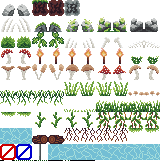
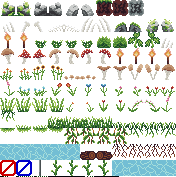
Poles and flowers

diff --git a/main/scripts/game/player.py b/main/scripts/game/player.py
@@ -8,21 +8,31 @@ import random
 
 class Player(CollisionPhysicsObject):
     def __init__(self, spawn_pos: [float], speed: float, sprint_speed: float, crouch_speed: float, swim_speed: float, acceleration_time: float, jump_force: int):
-        self.rect_size = PLAYER_SIZE
-        self.rect_size_crouch = tuple(self.rect_size[::-1])
-        self.rect_size_swim = (self.rect_size[0], self.rect_size[0])
+        super().__init__(50, spawn_pos, PLAYER_RECT_SIZE_NORMAL)
+
+        # Player rect size (based on state)
+        self.rect_size = PLAYER_RECT_SIZE_NORMAL
+        self.rect_size_crouch = PLAYER_RECT_SIZE_CROUCH
+        self.rect_size_swim = PLAYER_RECT_SIZE_SWIM
+
+        # Player speed (based on state)
         self.speed: float = speed
         self.sprint_speed: float = sprint_speed
         self.crouch_speed: float = crouch_speed
         self.swim_speed: float = swim_speed
+
+        # Physics attributes
         self.acceleration_time: float = acceleration_time
         self.jump_force: int = jump_force
+
+        # Animation states
         self.state: str = "idle" # state is used for movement & animations
         self.direction: int = 0 # 0 = right; 1 = left
         self.hit_ground = 0
-        self.can_move: bool = False # Used for intro
+        self.can_move: bool = False # Disabled during intro
+
+        # Long crouch jump
         self.charge_crouch_jump: float = 0
-        super().__init__(50, spawn_pos, self.rect_size)
 
     def draw(self, window: Window):
         # Draw hitbox
@@ -35,28 +45,60 @@ class Player(CollisionPhysicsObject):
     
     def jump(self, window, duration: float):
         force = self.jump_force * duration / window.delta_time
-        if self.direction == 1 and self.charge_crouch_jump and not window.keybind("left"): # Crouch jump left
+        if self.direction == 1 and self.charge_crouch_jump and not window.keybind("left"):
+            # Crouch jump left
             self.apply_force(force * 8, 160, window.delta_time)
             self.state = "crouch_jump"
-        elif self.direction == 0 and self.charge_crouch_jump and not window.keybind("right"): # Crouch jump right
+        elif self.direction == 0 and self.charge_crouch_jump and not window.keybind("right"):
+            # Crouch jump right
             self.apply_force(force * 8, 20, window.delta_time)
             self.state = "crouch_jump"
-        elif self.onGround: # Normal jump
+        elif self.onGround:
+            # Normal jump
             self.apply_force(force, 90, window.delta_time)
-        elif self.vel[1] > 1.5: # Max wall jump velocity
+        elif self.vel[1] > 1.5:
+            # Max wall jump velocity
             return
-        elif self.onWallLeft and window.keybind("left") and window.keybind("jump") == 1: # Wall jump left
+        elif self.onWallLeft and window.keybind("left") and window.keybind("jump") == 1:
+            # Wall jump left
             self.apply_force(force * 2.5, 110, window.delta_time)
             self.onWallLeft = 0
-        elif self.onWallRight and window.keybind("right") and window.keybind("jump") == 1: # Wall jump right
+        elif self.onWallRight and window.keybind("right") and window.keybind("jump") == 1:
+            # Wall jump right
             self.apply_force(force * 2.5, 70, window.delta_time)
             self.onWallRight = 0
 
     def move(self, world, window: Window):
-        # animation states
+        # Block_coords
         wall_block_right = (round(self.rect.x + 0.8), round(self.rect.y + 1))
         wall_block_left = (round(self.rect.x - 0.8), round(self.rect.y + 1))
 
+        # Climb poles & vines
+        if self.direction:
+            pole_x = math.floor(round(self.rect.x, 1))
+        else:
+            pole_x = math.ceil(round(self.rect.x, 1))
+        grab_pole = world.get_block(pole_x, round(self.rect.y + 1), layer=2) in world.blocks_climbable
+        on_pole = world.get_block(pole_x, round(self.rect.y), layer=2) in world.blocks_climbable or grab_pole
+
+        if window.keybind("jump") and on_pole:
+            self.onGround = True
+            if window.keybind("left") or window.keybind("right"):
+                self.vel[1] = 0
+            elif grab_pole and not window.keybind("crouch"):
+                self.rect.x = pole_x
+                self.vel[0] = 0
+                self.vel[1] = max(1.8, self.vel[1])
+                self.state = "climb_pole"
+                return
+            elif window.keybind("crouch") or not grab_pole:
+                self.rect.x = pole_x
+                self.vel[0] = 0
+                self.vel[1] = max(0.15, self.vel[1])
+                self.state = "on_pole"
+                return
+
+        # Animation states
         if self.vel[1] < -5:
             self.state = "fall"
             self.hit_ground = 0.3
@@ -96,6 +138,7 @@ class Player(CollisionPhysicsObject):
         elif self.vel[0] < -1:
             self.direction = 1
 
+        # Swap states between normal and crouching
         if self.state in ("crouch", "crouch_jump", "crawl"):
             if self.rect.size != self.rect_size_crouch:
                 self.rect.x += (self.rect_size[0] - self.rect_size_crouch[0]) / 2
@@ -113,6 +156,7 @@ class Player(CollisionPhysicsObject):
                 self.rect.size = self.rect_size_crouch
                 self.state = {"jump": "crouch_jump", "jump_high": "crouch_jump", "walk": "crawl", "sprint": "crawl"}.get(self.state, "crouch")
 
+        # Move player
         max_speed = self.speed
         if window.keybind("sprint"): # Keeps sprinting once key pressed / stops faster as long as pressed
             max_speed = self.sprint_speed
@@ -127,7 +171,7 @@ class Player(CollisionPhysicsObject):
             else:
                 current_speed /= 3 # Stop movement while in air
 
-        if self.can_move:
+        if self.can_move: # Disabled during intro
             if window.keybind("right"): # d has priority over a
                 if self.vel[0] < max_speed:
                     if self.vel[0] + current_speed > max_speed: # Guaranteeing exact max speed
@@ -250,18 +294,19 @@ class Player(CollisionPhysicsObject):
             mouse_pos = window.camera.map_coord(window.mouse_pos[:2], world=True)
             spawn_particle(mouse_pos)
         
-        """
+
         if window.mouse_buttons[2] == 1: # right click: place/break block
             mouse_pos = window.camera.map_coord(window.mouse_pos[:2], world=True)
             if world.get_block(math.floor(mouse_pos[0]), math.floor(mouse_pos[1])) > 0:
                 world.set_block(math.floor(mouse_pos[0]), math.floor(mouse_pos[1]), 0)
             else:
-                world.set_block(math.floor(mouse_pos[0]), math.floor(mouse_pos[1]), world.block_name["grass_block"])
+                world.set_block(math.floor(mouse_pos[0]), math.floor(mouse_pos[1]), world.block_name["dirt_block"])
         """
         if window.mouse_buttons[2] == 1: # place water
             mouse_pos = window.camera.map_coord(window.mouse_pos[:2], world=True)
             water_level = world.get_water(math.floor(mouse_pos[0]), math.floor(mouse_pos[1]))
             world.set_water(math.floor(mouse_pos[0]), math.floor(mouse_pos[1]), water_level + 1000)
+        """
         
 
         for particle in particle_list:

diff --git a/main/scripts/utility/const.py b/main/scripts/utility/const.py
@@ -6,7 +6,9 @@ OPENGL_VERSION: str = "3.3 core"
 PLATFORM: str = platform.system()
 INTRO_REPEAT: int = 64
 INTRO_LENGTH: int = INTRO_REPEAT * 24
-PLAYER_SIZE: [int] = (0.9, 1.8)
+PLAYER_RECT_SIZE_NORMAL: [float] = (0.9, 1.8)
+PLAYER_RECT_SIZE_CROUCH: [float] = (1.8, 1.8)
+PLAYER_RECT_SIZE_SWIM: [float] = (0.9, 1.8)
 PHYSICS_REALISTIC: bool = False
 PHYSICS_GRAVITY_CONSTANT: float = 9.81 if PHYSICS_REALISTIC else 15
 PHYSICS_GRAVITY_CONSTANT_WATER: float = PHYSICS_GRAVITY_CONSTANT
@@ -29,6 +31,7 @@ TEXT_SIZE_DESCRIPTION: float = 0.14
 CAMERA_RESOLUTION_INTRO: float = 1.0
 CAMERA_RESOLUTION_GAME: float = 3.0
 BLOCKS_VEGETATION_FLOOR_COMMON: tuple = ("flat_grass", "small_grass", "medium_grass")
-BLOCKS_VEGETATION_FLOOR_UNCOMMON: tuple = ("tall_grass", "bush0", "bush1", "torch")
-BLOCKS_VEGETATION_FLOOR_RARE: tuple = ("mushroom0", "mushroom1", "mushroom2", "mushroom3", "mushroom4", "mushroom5", "mushroom6", "plant0", "wood0", "bones0", "bones1", "bones2", "bones3", "stone0", "stone1", "stone2", "mossy_stone0", "mossy_stone1")
+BLOCKS_VEGETATION_FLOOR_UNCOMMON: tuple = ("tall_grass", "bush0", "bush1", "torch", *["flower" + str(i) for i in range(11)])
+BLOCKS_VEGETATION_FLOOR_RARE: tuple = (*["mushroom" + str(i) for i in range(7)], "plant0", "wood0", "bones0", "bones1", "bones2", "bones3", "stone0", "stone1", "stone2", "mossy_stone0", "mossy_stone1")
 BLOCKS_VEGETATION_CEILING: tuple = ("roots0", "roots1", "roots2", "vines0", "vines1")
+BLOCKS_CLIMBABLE: tuple = ("pole", "vines0", "vines0_flipped")

diff --git a/main/scripts/game/world_generation.py b/main/scripts/game/world_generation.py
@@ -36,7 +36,7 @@ def generate_world(world):
         last_special += 1
         cave_type = random.random()
 
-        if cave_type > 0.7 or last_special < 5:
+        if cave_type > 0.7 or last_special < 4:
             print("generate horizontal cave")
             Shape.horizontal(world, position)
         else:
@@ -171,7 +171,7 @@ def generate_poles(world, poles, blocks_ground, blocks_ceiling):
             continue
 
         y_ground = blocks_ground[x]
-        y_ceiling = max(y_ground, blocks_ceiling[x] - 3)
+        y_ceiling = max(y_ground, blocks_ceiling[x] - 2)
 
         for y in range(y_ground, y_ceiling):
             world.set_block(x, y, world.block_name["pole"])
@@ -268,7 +268,7 @@ class Shape:
         
     @staticmethod
     def horizontal(world, position):
-        angle = snoise2(position[0] / 100 + world.seed, world.seed, octaves=4) * 0.8
+        angle = snoise2(position[0] / 100 + world.seed, world.seed, octaves=4) * 0.7
         length = random.randint(50, 150)
         deviation = random.randint(2, 6) # 2 - 6 works fine
         radius = 3
@@ -277,10 +277,10 @@ class Shape:
 
     @staticmethod
     def vertical(world, position):
-        angle = math.pi / 2 * 3
+        angle = math.pi / 2 * 3 * (random.randint(0, 1) * 2 - 1)
         length = random.randint(10, 30)
         deviation = random.randint(1, 2)
-        radius = 2
+        radius = 1
 
         line_cave(world, position, length, angle, deviation, radius)
 

diff --git a/main/scripts/game/world.py b/main/scripts/game/world.py
@@ -19,6 +19,7 @@ class World(dict):
         self.block_name: dict = {name: index for name, (index, layer) in block_data.items()}
         self.block_index: dict = {index: name for name, (index, layer) in block_data.items()}
         self.block_index[0] = "air"
+        self.blocks_climbable: set = {self.block_name[name] for name in BLOCKS_CLIMBABLE}
         self.entities: set = set()
         self.particles: set = set()
         self.wind: float = 0.0 # Wind direction
